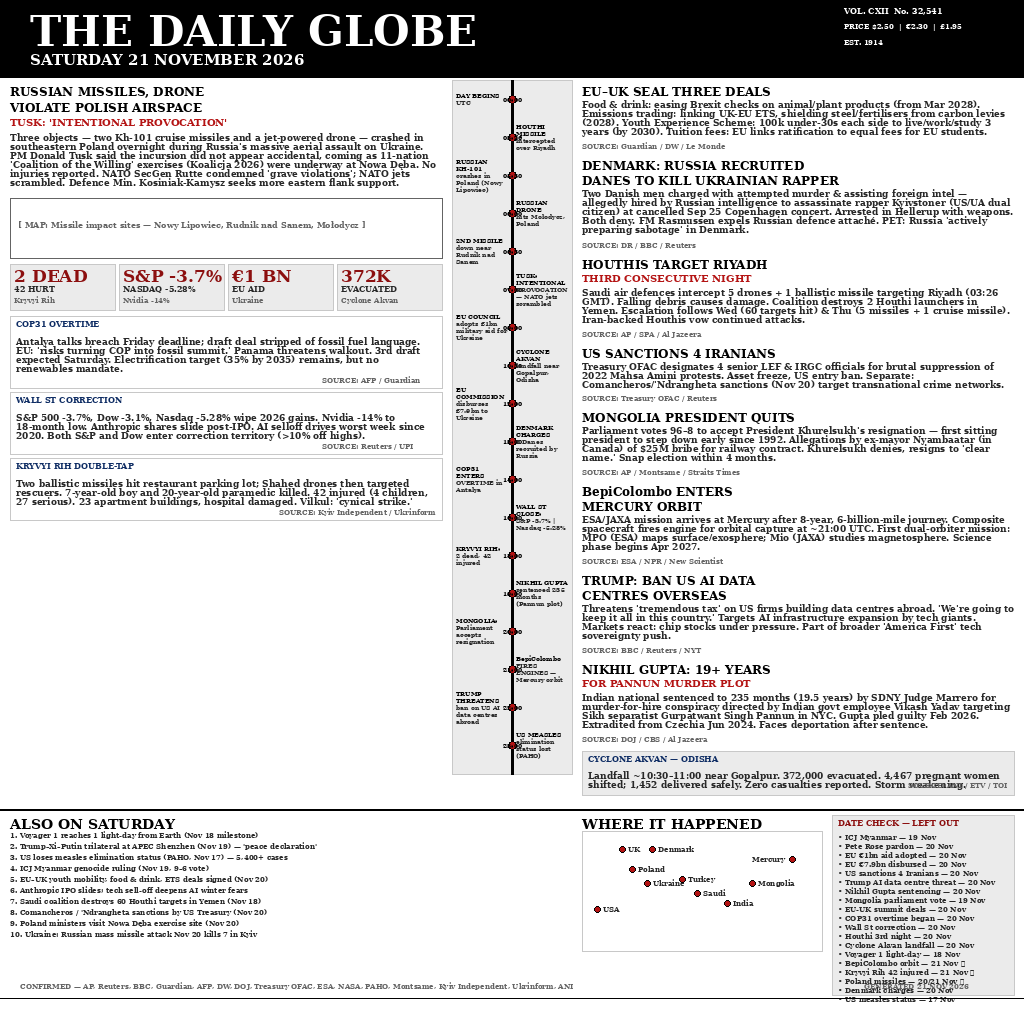
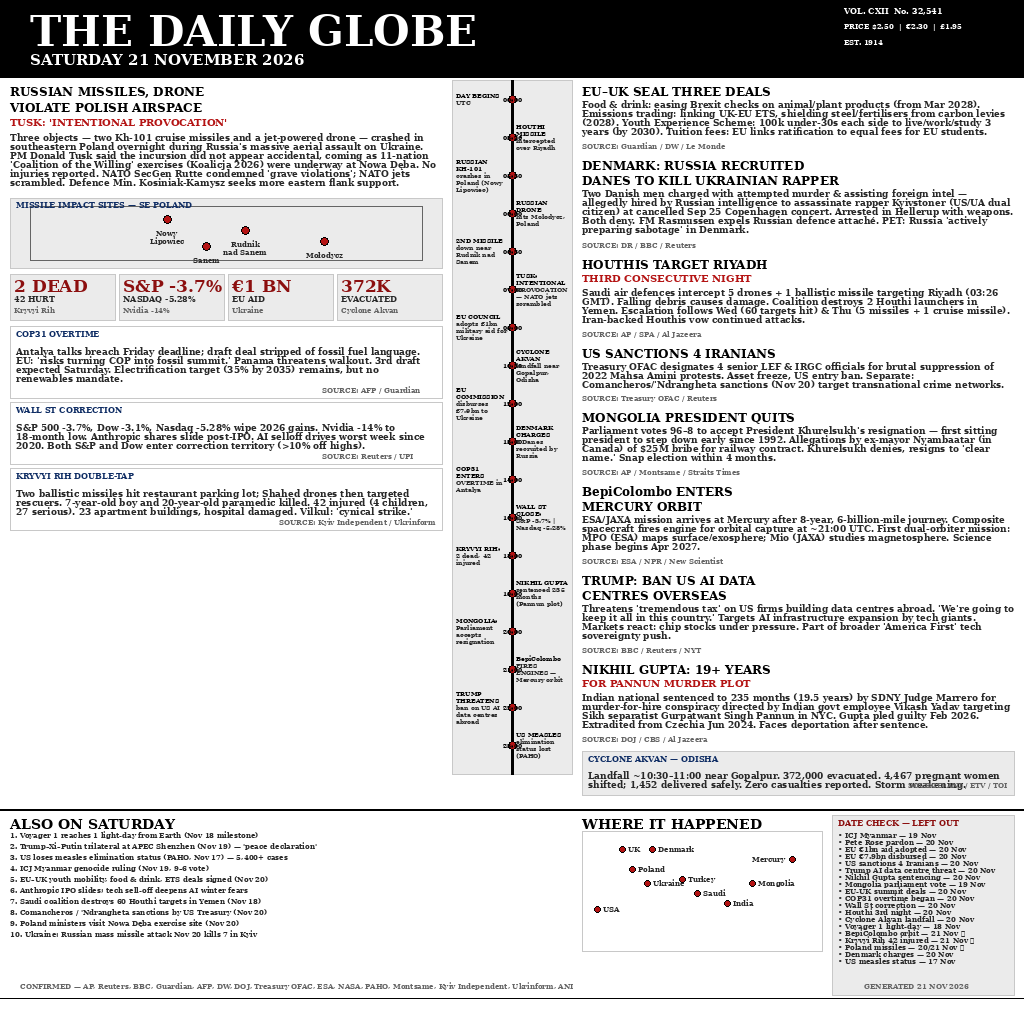
Polish: real lead map, DATE CHECK fits page

Changed region(s): [[0.0, 0.1875, 0.4375, 0.5312], [0.8125, 0.8125, 0.9688, 1.0]]

diff --git a/generate_image.py b/generate_image.py
@@ -247,10 +247,33 @@ def main():
     hero_h = draw_wrapped_text(draw, LEFT_COL_X, col_y, hero_text, font_body, DARK_GRAY, LEFT_COL_W)
     col_y += hero_h + 6
 
-    # Map placeholder for Poland
-    map_box_h = 60
-    draw.rectangle([LEFT_COL_X, col_y, LEFT_COL_X + LEFT_COL_W, col_y + map_box_h], outline=MED_GRAY, width=1)
-    draw.text((LEFT_COL_X + 8, col_y + 22), "[ MAP: Missile impact sites — Nowy Lipowiec, Rudnik nad Sanem, Mołodycz ]", font=font_small, fill=MED_GRAY)
+    # Real small map for Poland missile impact sites
+    map_box_h = 70
+    draw.rectangle([LEFT_COL_X, col_y, LEFT_COL_X + LEFT_COL_W, col_y + map_box_h], outline=LIGHT_GRAY, width=1, fill=VERY_LIGHT_GRAY)
+    # Poland outline (simple rotated rectangle approximation)
+    poland_left = LEFT_COL_X + 20
+    poland_top = col_y + 8
+    poland_w = LEFT_COL_W - 40
+    poland_h = map_box_h - 16
+    # Draw Poland shape - rough outline
+    draw.rectangle([poland_left, poland_top, poland_left + poland_w, poland_top + poland_h], outline=MED_GRAY, width=1)
+    # Impact sites as red dots with labels
+    # Approximate relative positions in SE Poland
+    sites = [
+        (poland_left + int(poland_w * 0.35), poland_top + int(poland_h * 0.25), "Nowy\nLipowiec"),
+        (poland_left + int(poland_w * 0.55), poland_top + int(poland_h * 0.45), "Rudnik\nnad Sanem"),
+        (poland_left + int(poland_w * 0.75), poland_top + int(poland_h * 0.65), "Mołodycz"),
+        (poland_left + int(poland_w * 0.45), poland_top + int(poland_h * 0.75), "Sanem"),
+    ]
+    for sx, sy, label in sites:
+        draw.ellipse([sx - 4, sy - 4, sx + 4, sy + 4], fill=RED, outline=BLACK, width=1)
+        # Draw label below dot
+        lines = label.split("\n")
+        for i, line in enumerate(lines):
+            tw = draw.textbbox((0, 0), line, font=font_tiny)[2]
+            draw.text((sx - tw // 2, sy + 10 + i * 8), line, font=font_tiny, fill=DARK_GRAY)
+    # Title
+    draw.text((LEFT_COL_X + 6, col_y + 2), "MISSILE IMPACT SITES — SE POLAND", font=font_label, fill=BLUE_DARK)
     col_y += map_box_h + 6
 
     # ============================================================
@@ -468,7 +491,7 @@ def main():
     check_box_h = 180
     draw.rectangle([check_x, check_y, check_x + check_w, check_y + check_box_h], fill=VERY_LIGHT_GRAY, outline=LIGHT_GRAY, width=1)
     draw.text((check_x + 6, check_y + 3), "DATE CHECK — LEFT OUT", font=font_label, fill=RED_DARK)
-    cy = check_y + 18
+    cy = check_y + 16  # Reduced from 18 to fit all items
     left_out = [
         "• ICJ Myanmar — 19 Nov",
         "• Pete Rose pardon — 20 Nov",
@@ -492,7 +515,7 @@ def main():
     ]
     for item in left_out:
         draw.text((check_x + 6, cy), item, font=font_tiny, fill=DARK_GRAY)
-        cy += 9
+        cy += 7  # Reduced from 9 to 7 to fit all 20 items within box
 
     # ============================================================
     # FOOTER - sources
